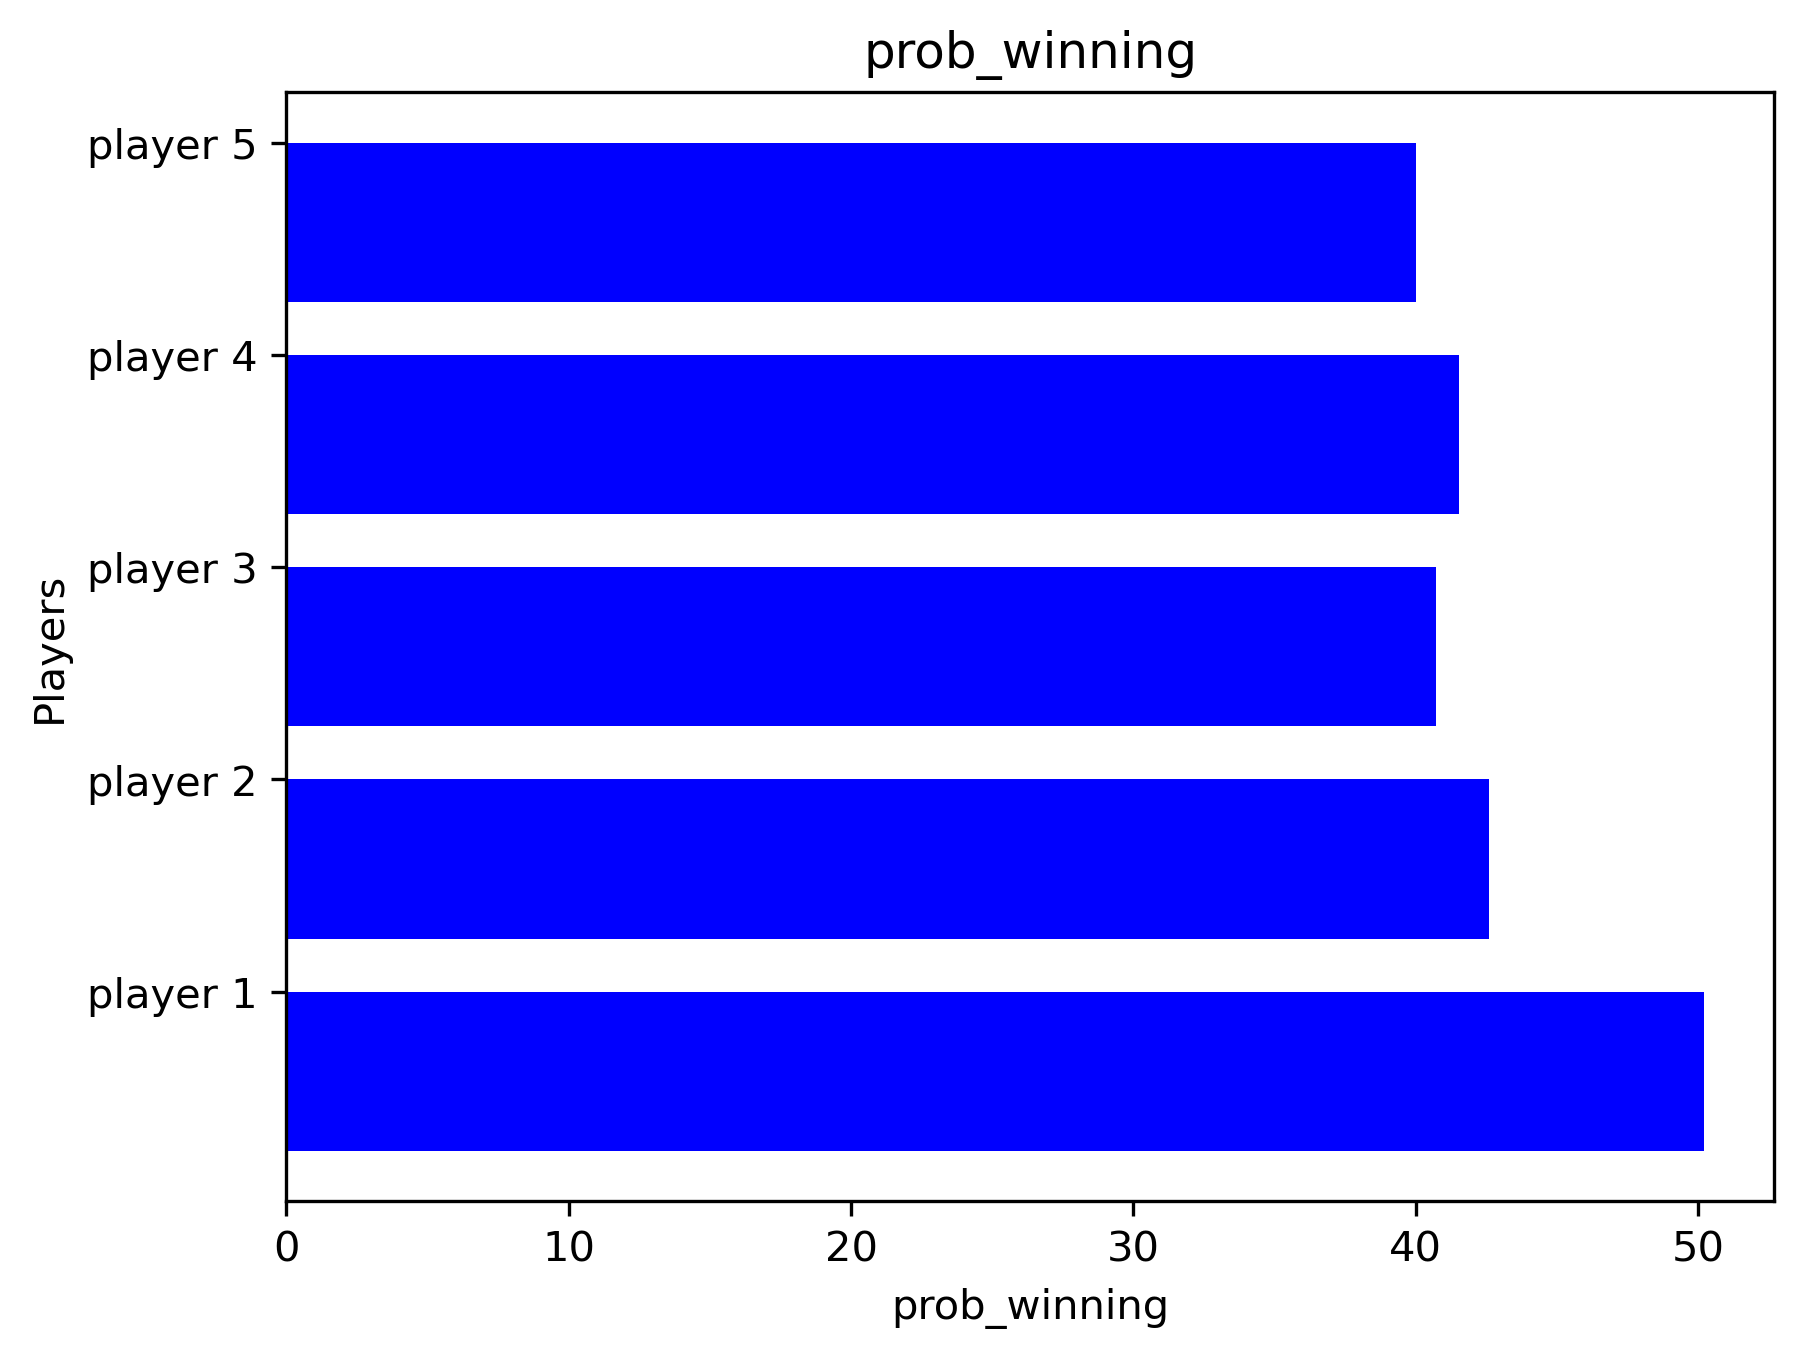
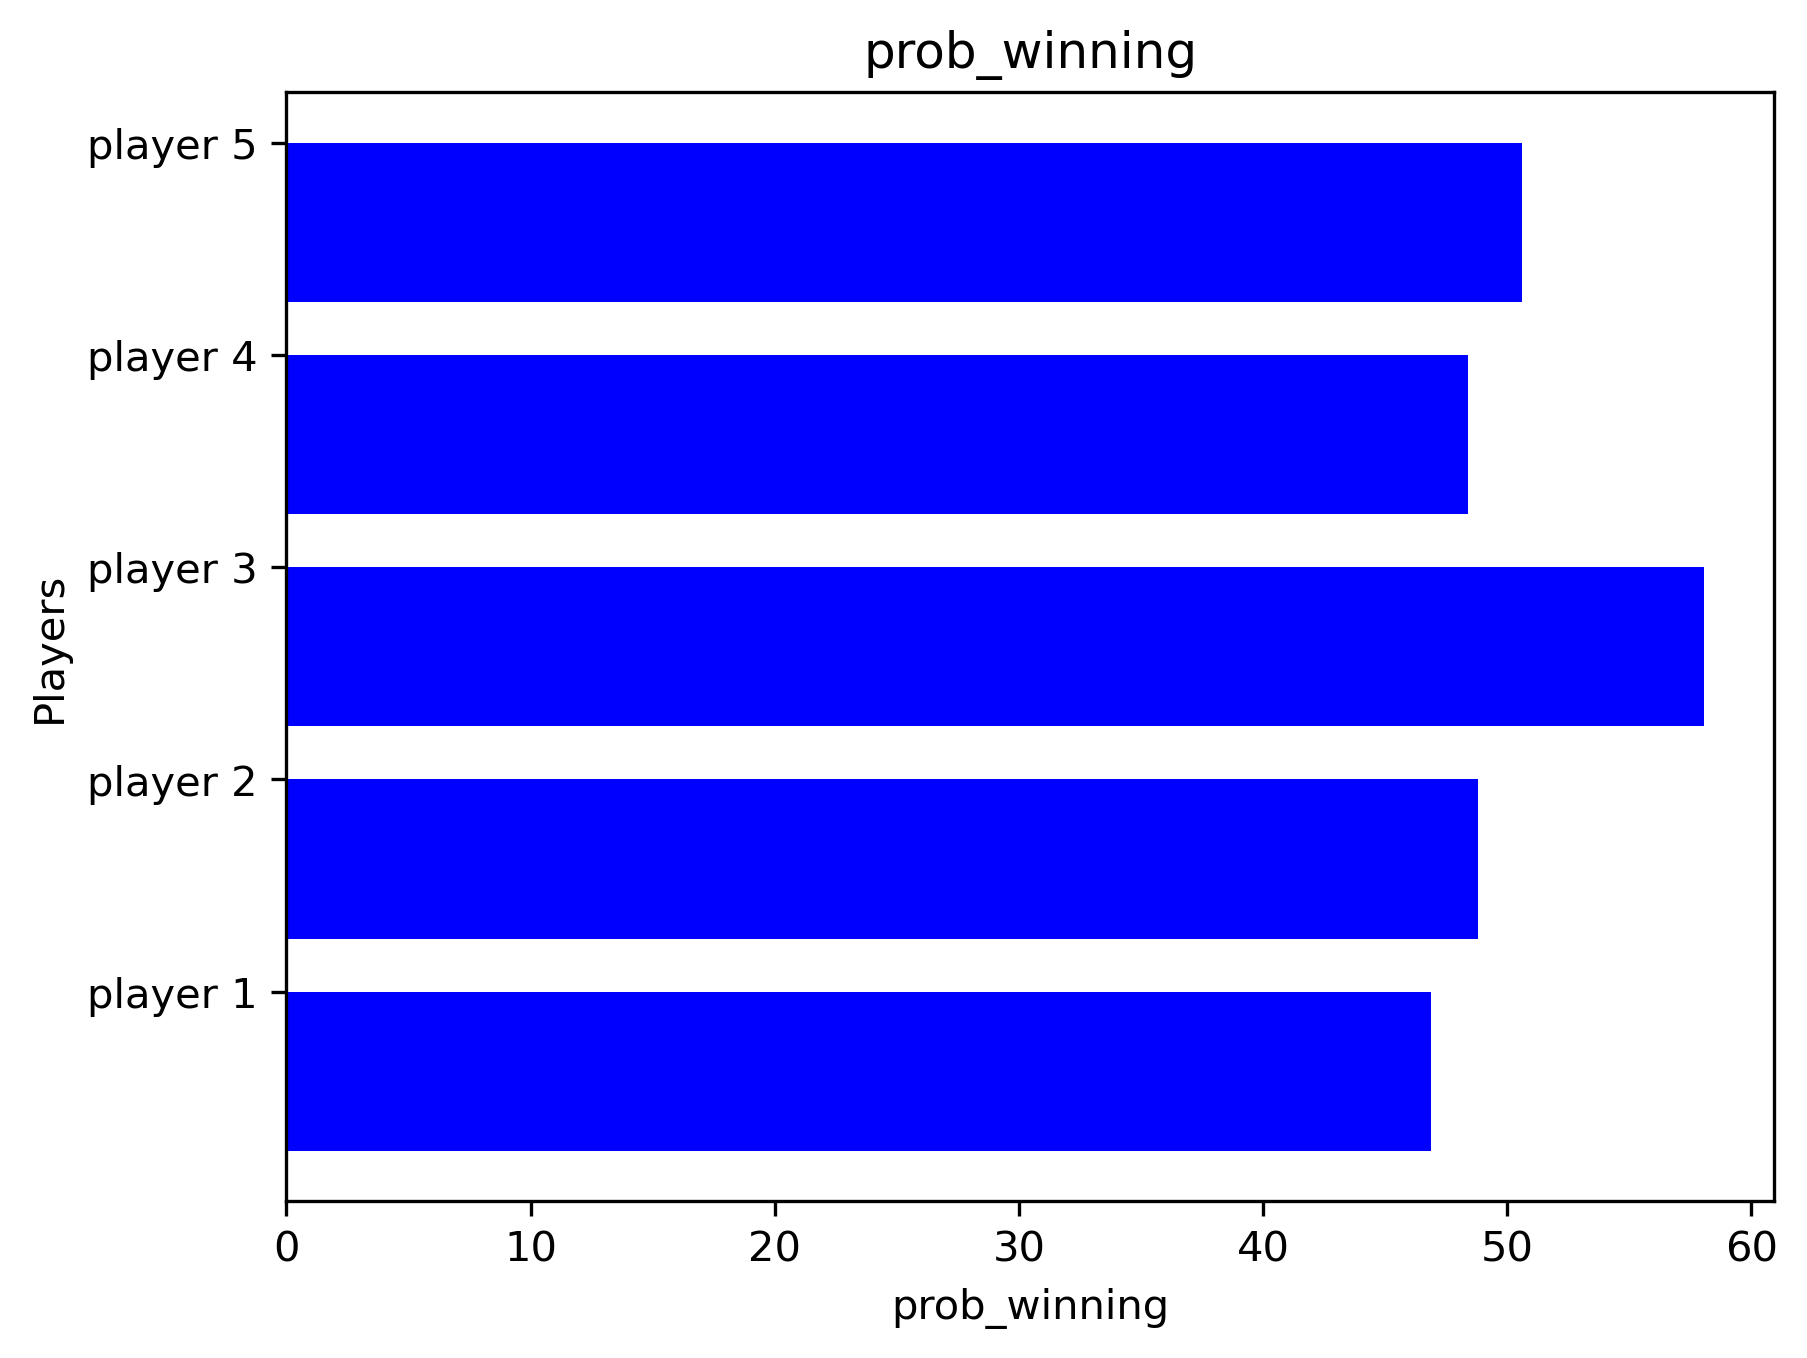
bar_saver
changed bar_saver

diff --git a/bar_saver.py b/bar_saver.py
@@ -4,15 +4,11 @@ import numpy as np
 import matplotlib.pyplot as plt
 from converter import convert_to_form
 
-player_hands = [['Ace of Hearts','Ace of Diamonds'],
-                ['Jack of Clubs','Queen of Spades'],
-                ['Three of Clubs','Five of Diamonds'],
-                ['King of Hearts','Queen of Clubs'],
-                ['Four of Spades','Five of Hearts']]
 
 
 
-def bar_saver(player_hands):
+
+def bar_saver(player_hands,players):
     """Takes a list of player hands of the form 
         [['Two of Hearts','Three of Diamonds'],['Jack of Clubs','Queen of Spades'],etc]
         outputs a save_file of player_probabilities"""
@@ -43,7 +39,10 @@ def bar_saver(player_hands):
 
     print(prob_list)
 
-    players = ['player 1', 'player 2','player 3','player 4','player 5']
+    # players = ['player 1', 'player 2','player 3','player 4','player 5']
+    # players = []
+
+    for player in
     
     fig, ax = plt.subplots()
     width = 0.75 # the width of the bars
@@ -61,4 +60,3 @@ def bar_saver(player_hands):
     #     """Takes players cards and outputs
     #      everyones probablity of winning"""
 
-bar_saver(player_hands)

diff --git a/try (4).py b/try (4).py
@@ -259,16 +259,20 @@ def main():
 
         def generate_prob(self):
             player_cards = []
+            player_names = []
             counter = 0
 
             for player in self.list_of_players_not_out:
+                player = self.list_of_players_not_out[counter]
+                player = str(player)
                 card_1 = self.list_of_players_not_out[counter].cards[0]
                 card_2 = self.list_of_players_not_out[counter].cards[1]
                 cards = [card_1,card_2]
                 player_cards.append(cards)
+                player_names.append(player)
 
 
-            bar_saver(player_cards)
+            bar_saver(player_cards,player_names)
 
         def deal_flop(self):
             self.deck.burn()

diff --git a/converter.py b/converter.py
@@ -2,7 +2,7 @@
 # Two of Hearts to 2h
 
 
-string = 'Two of Hearts'
+
 
 def convert_to_form(string):
     """Takes string of the type 'Two of Hearts'
